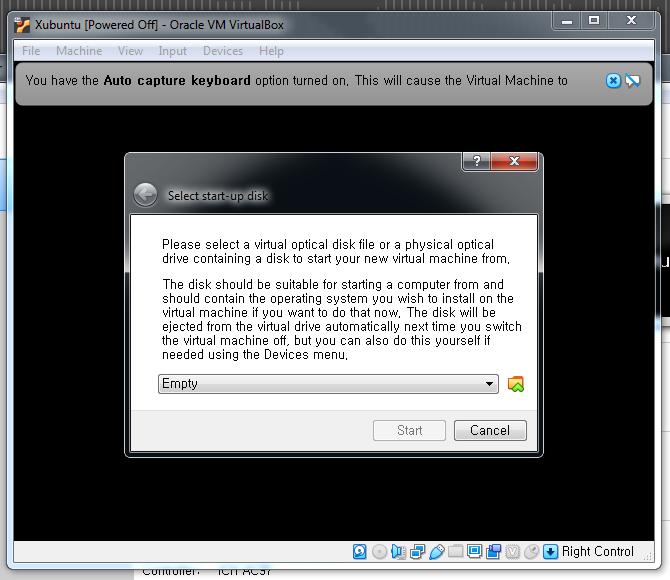
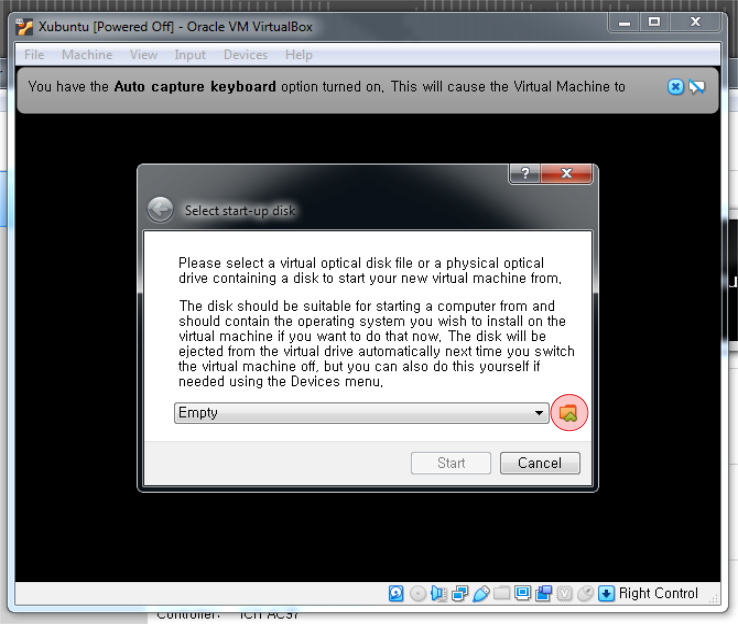
updated install_xubuntu.md

diff --git a/linux/03_install_xubuntu.md b/linux/03_install_xubuntu.md
@@ -6,59 +6,59 @@ Now that we have a virtual machine, we need to install an operating system for t
 
     ![Start Machine](assets/03-01_install_xubuntu.png)
 
-1. Make sure that the `Xubuntu` virtual machine from the previous step is selected, then click the `Start` button to start the machine.
+2. Click on the `folder` icon to choose the `Xubuntu ISO` downloaded previously.
 
     ![Start Machine](assets/03-02_install_xubuntu.png)
 
-1. Make sure that the `Xubuntu` virtual machine from the previous step is selected, then click the `Start` button to start the machine.
+3. Navigate to the folder where the `Xubuntu ISO` was downloaded, select the file, and click the `Open` button to continue.
 
     ![Start Machine](assets/03-03_install_xubuntu.png)
 
-1. Make sure that the `Xubuntu` virtual machine from the previous step is selected, then click the `Start` button to start the machine.
+4. Make sure that the `xubuntu-18.04-desktop-amd64.iso` file is selected in the menu.
 
     ![Start Machine](assets/03-04_install_xubuntu.png)
 
-1. Make sure that the `Xubuntu` virtual machine from the previous step is selected, then click the `Start` button to start the machine.
+5. When given the options to `Try Xubuntu` or `Instal Xubuntu`, select `Install Xubuntu`.
 
     ![Start Machine](assets/03-05_install_xubuntu.png)
 
-1. Make sure that the `Xubuntu` virtual machine from the previous step is selected, then click the `Start` button to start the machine.
+6. Keyboard layout selected should be `English (US)`, then click the `Continue` button to go to the next step.
 
     ![Start Machine](assets/03-06_install_xubuntu.png)
 
-1. Make sure that the `Xubuntu` virtual machine from the previous step is selected, then click the `Start` button to start the machine.
+7. Select the `Download updates while installing Xubuntu` option to download necessary updates to the operating system, then click `Continue`.
 
     ![Start Machine](assets/03-07_install_xubuntu.png)
 
-1. Make sure that the `Xubuntu` virtual machine from the previous step is selected, then click the `Start` button to start the machine.
+8. Select the `Erase disk and install Xubuntu` option, then click the `Install Now` button to proceed.
 
     ![Start Machine](assets/03-08_install_xubuntu.png)
 
-1. Make sure that the `Xubuntu` virtual machine from the previous step is selected, then click the `Start` button to start the machine.
+9. Confirm the installation procedue by selecting the `Continue` button.
 
     ![Start Machine](assets/03-09_install_xubuntu.png)
 
-1. Make sure that the `Xubuntu` virtual machine from the previous step is selected, then click the `Start` button to start the machine.
+10. Select `Seoul` on the map to set the time of the operating system, then click `Continue`.
 
     ![Start Machine](assets/03-10_install_xubuntu.png)
 
-1. Make sure that the `Xubuntu` virtual machine from the previous step is selected, then click the `Start` button to start the machine.
+11. Finally, enter your `name`, `username`, and selected a `password` for your Xubuntu account. Click the `Continue` button to start the installation procedure.
 
     ![Start Machine](assets/03-11_install_xubuntu.png)
 
-1. Make sure that the `Xubuntu` virtual machine from the previous step is selected, then click the `Start` button to start the machine.
+12. Xubuntu will now be installed on the virtual machine environment, this step can take several minutes or longer depending on the speed of your computer.
 
     ![Start Machine](assets/03-12_install_xubuntu.png)
 
-1. Make sure that the `Xubuntu` virtual machine from the previous step is selected, then click the `Start` button to start the machine.
+13. After the install procedure is finished, click the `Restart Now` button to restart the Xubuntu system.
 
     ![Start Machine](assets/03-13_install_xubuntu.png)
 
-1. Make sure that the `Xubuntu` virtual machine from the previous step is selected, then click the `Start` button to start the machine.
+14. After Xubuntu has finished re-starting (you might have to enter the password you created in step `11`), enter your account password to log-in to Xubuntu.
 
     ![Start Machine](assets/03-14_install_xubuntu.png)
 
-1. Make sure that the `Xubuntu` virtual machine from the previous step is selected, then click the `Start` button to start the machine.
+15. Xubuntu should ask if you would like to update the operating system and other necessary software. Click the `Install Now` button, and then re-start Xubuntu after the updated software has been installed if necessary.
 
     ![Start Machine](assets/03-15_install_xubuntu.png)
 
